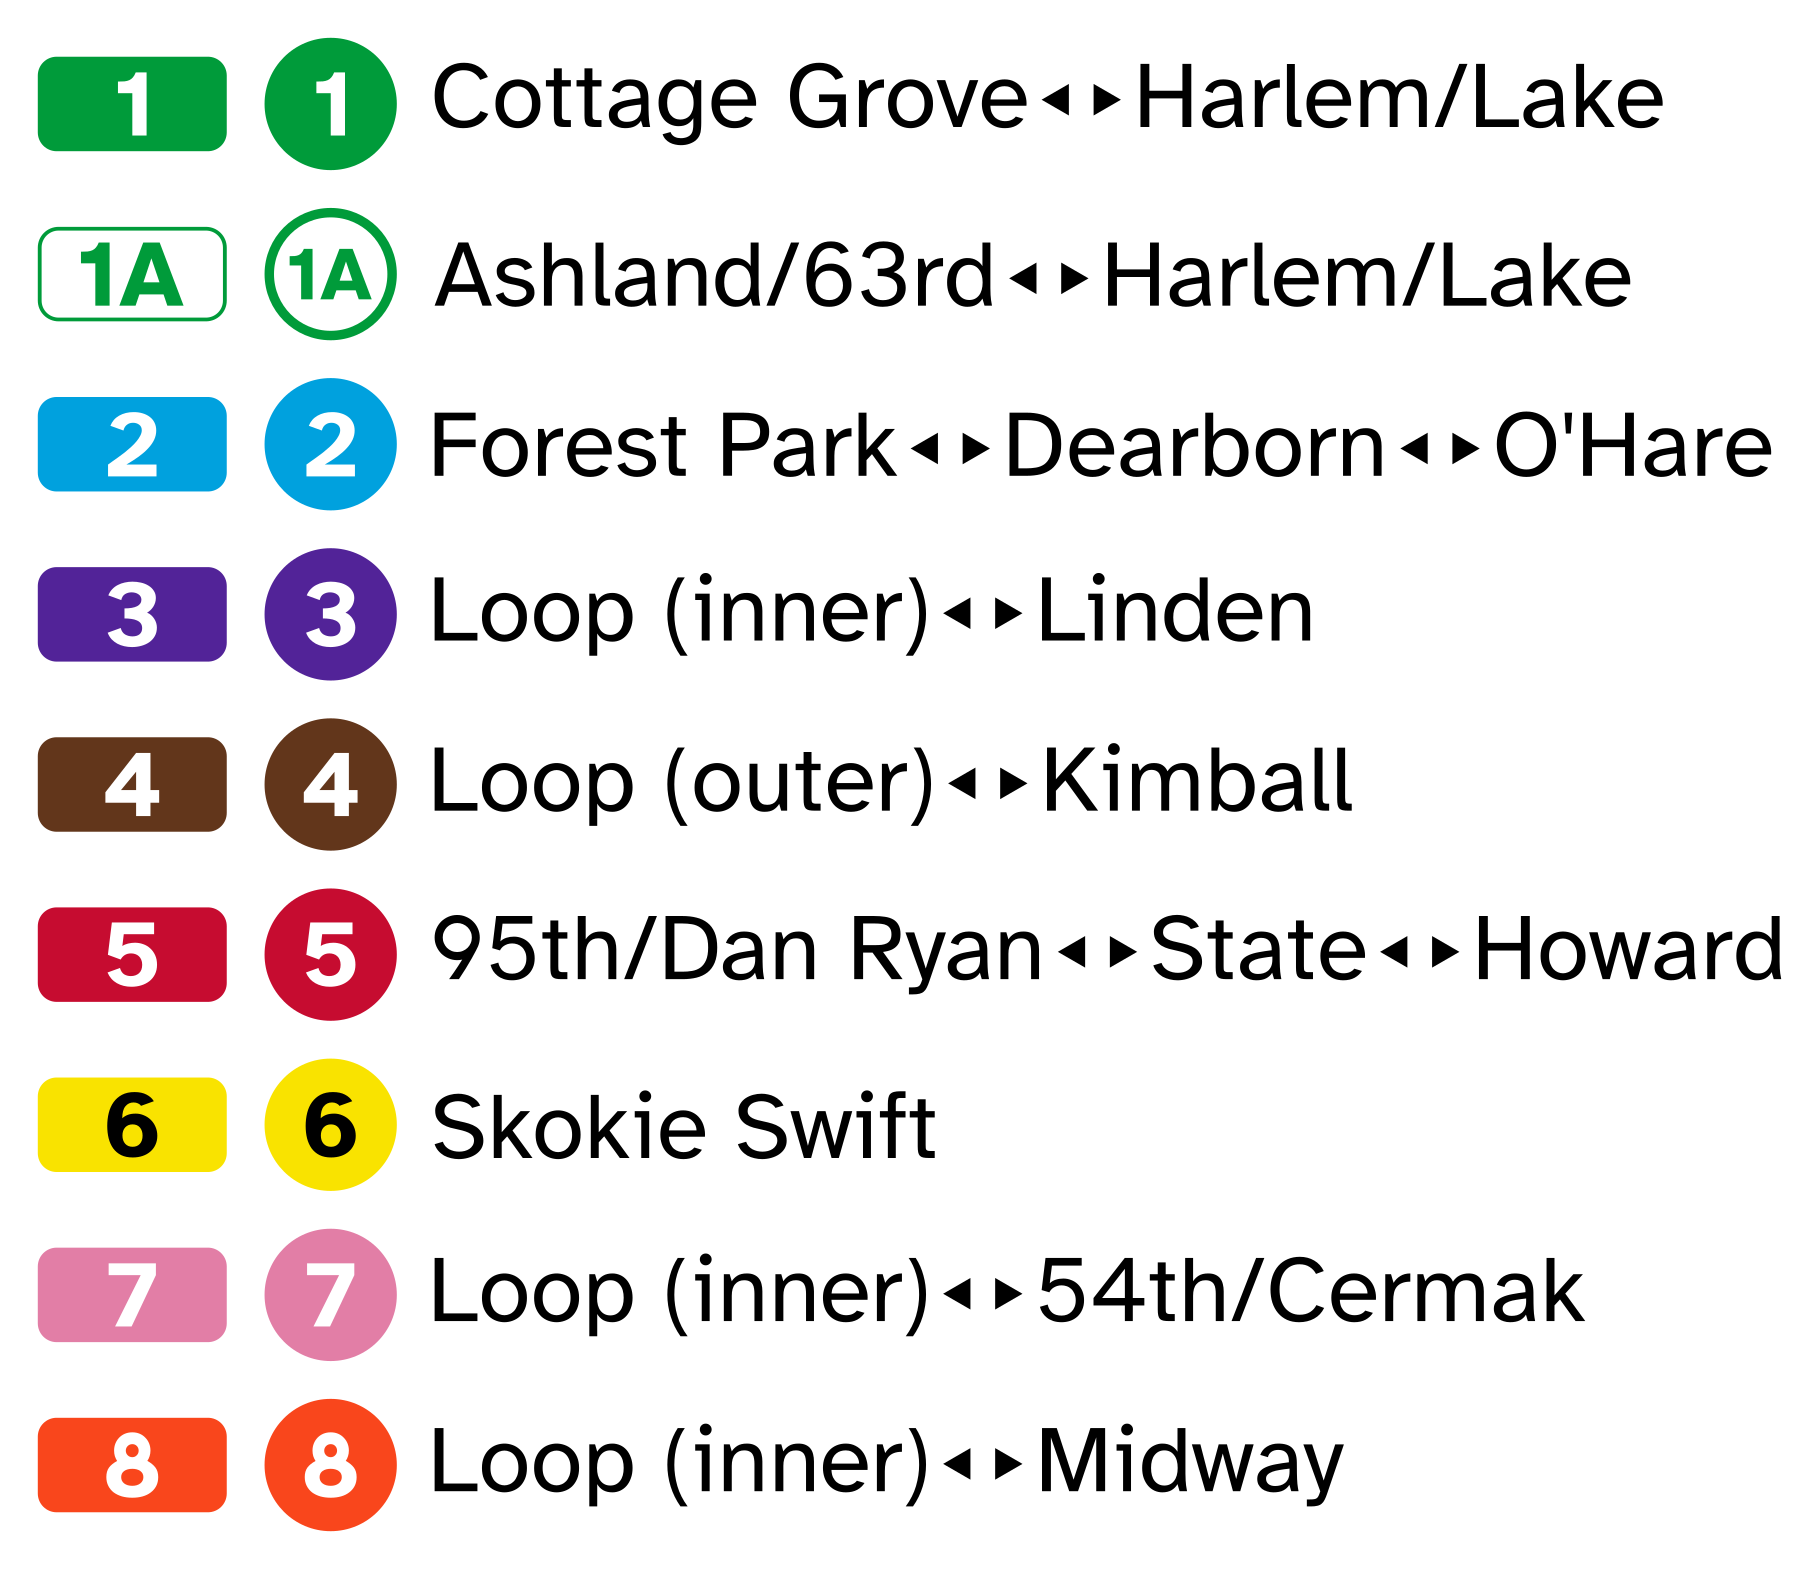
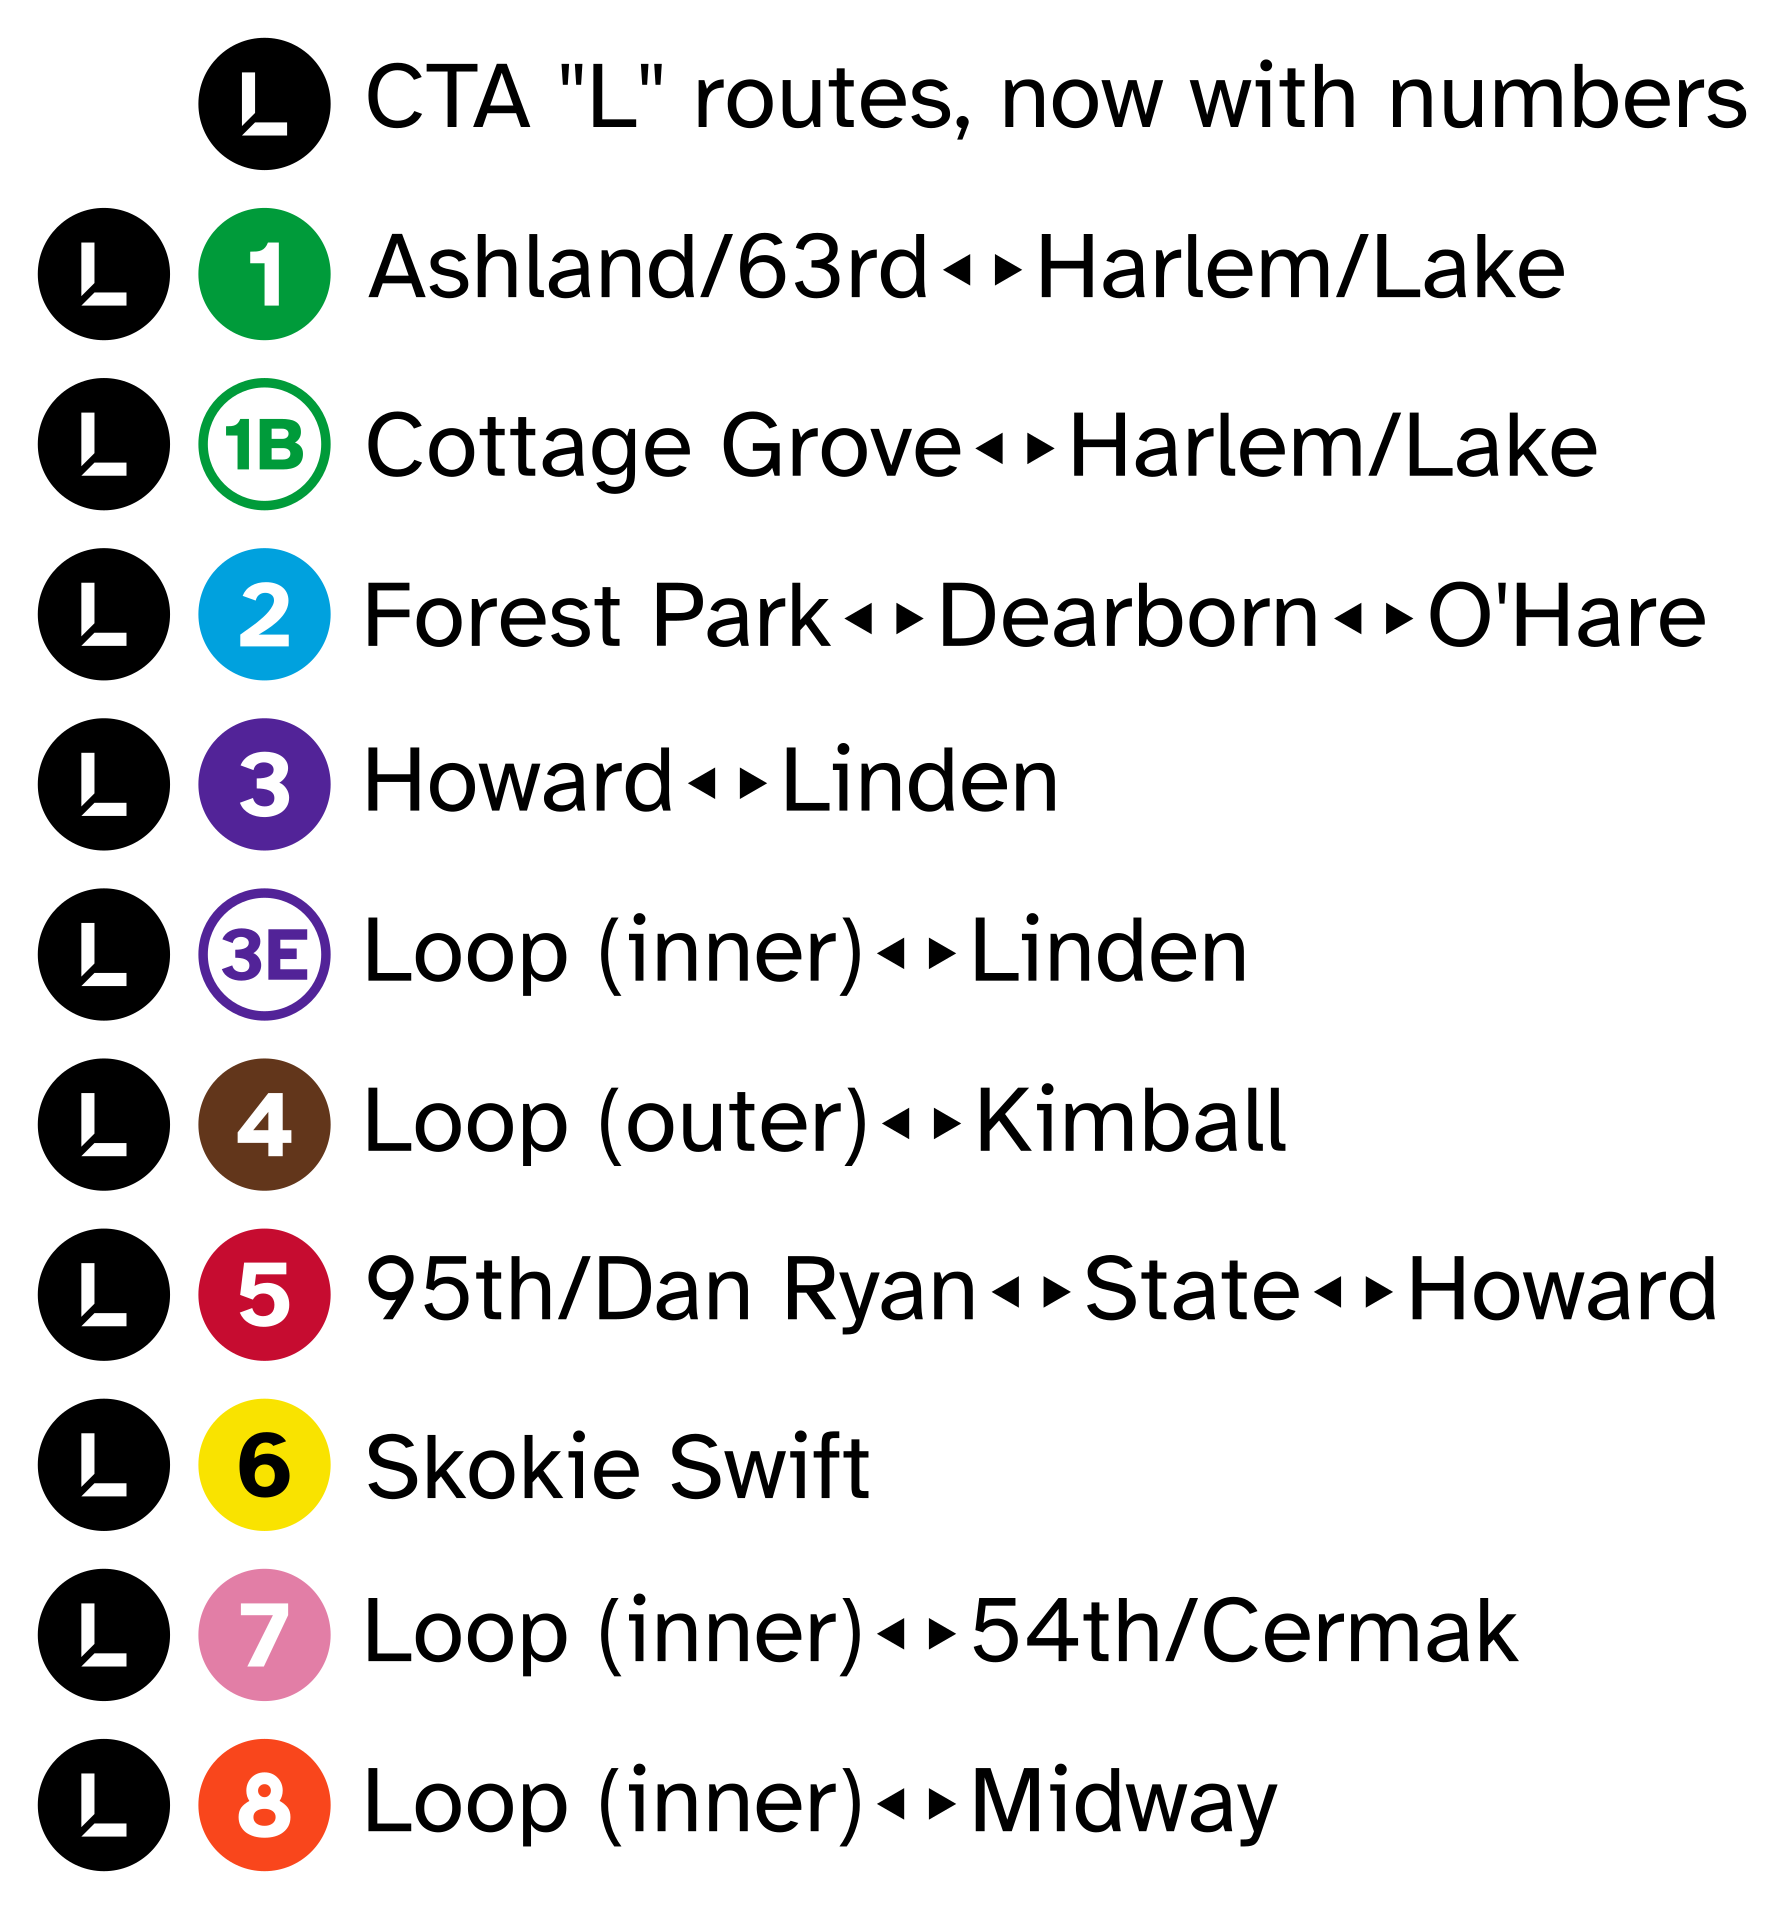
improved the_el under imptra

Changed region(s): [[0.0, 0.0, 0.9865, 0.9994]]

diff --git a/imptra.html b/imptra.html
@@ -4,7 +4,7 @@
 <meta property="og:url" content="https://puku-777.github.io/imptra.html">
 <meta property="og:title" content="Improved transit wayfinding/information/diagrams">
 <meta property="og:description" content="I take no responsibility, I am not a transit authority">
-<meta property="og:image" content="https://puku-777.github.io/tracsi/chessie.png">
+<meta property="og:image" content="https://puku-777.github.io/imptra/ctal.png">
 </head>
 <a href="index.html"><<< Back to home</a>
 <h1>Improved transit wayfinding/information/diagrams</h1>
@@ -12,7 +12,7 @@
 <table>
 <tr><th>Description</th><th>Image</th><th>Alternate download</th></tr>
 <tr><td>(printable!) SEPTA Metro map with extant numbers and Wawa representation<br>You may wish to "open image in new tab" or just go straight to the pdf.</td><td><img src="imptra/septametro-map-printable.svg"></td><td><a href="imptra/septametro-map-printable.pdf" download>septametro-map-printable.pdf: 1.42M</a></td></tr>
-<tr><td>CTA "L" color-named lines reimagined with numbers*</td><td><img src="imptra/the_el.svg"></td><td><a href="imptra/the_el.png" download>the_el.png: 1819x1569</a></td></tr>
+<tr><td>CTA "L" color-named lines reimagined with numbers*</td><td><img src="imptra/the_el.svg"></td><td><a href="imptra/the_el.png" download>the_el.png: 1784x1909</a></td></tr>
 </table>
-<p>* The numbering order mostly catches the chronological order of infra that the current routings run on (South Side, then Lake/Metropolitan system, then North Side, then Midway branch).<br>The Swift, Cermak, and Midway are semi-mnemonic (<strong>S</strong>w<strong>I</strong>ft, <strong>SE</strong>rmak but take liberties with pronunciation of Cermak, Midw<strong>8</strong>), and the Swift is before Cermak just so I could group it with the other North Side stuff.</p>
+<p>* The numbering order mostly catches the chronology of infrastructure that the current routings run on (South Side, then Lake/Metropolitan system, then North Side, then Midway branch).<br>The Swift, Cermak, and Midway are semi-mnemonic via their assigned numeral (<strong>S</strong>w<strong>I</strong>ft, <strong>SE</strong>rmak but take liberties with pronunciation of Cermak, Midw<strong>8</strong>); the Swift being before the Cermak branch also lets me group it with the other North Side stuff.</p>
 </html>

diff --git a/readinglist.html b/readinglist.html
@@ -14,4 +14,5 @@
 <a href="https://villamosok.hu/troli/ik-280-gvm/index.html">"GVM - IK-280-as trolibuszok" page at villamosok.hu/troli (magyarul)</a><br>
 <a href="https://villamosok.hu/troli/ik-280-gvm/e_index.html">"GVM - IK-280 trolleybuses" hosted on said website (in English)</a><br>
 <a href="https://villamosok.hu/nza/ganz/ganz-kcsv.html">Ganz KCSV page on villamosok.hu (csak magyarul | only in Hungarian)</a><br>
+<a href="https://onlinepubs.trb.org/Onlinepubs/trr/1985/1023/1023-003.pdf">On the 50 kV electrification for Tumbler Ridge, courtesy Nixy Mouse</a><br>
 </html>
